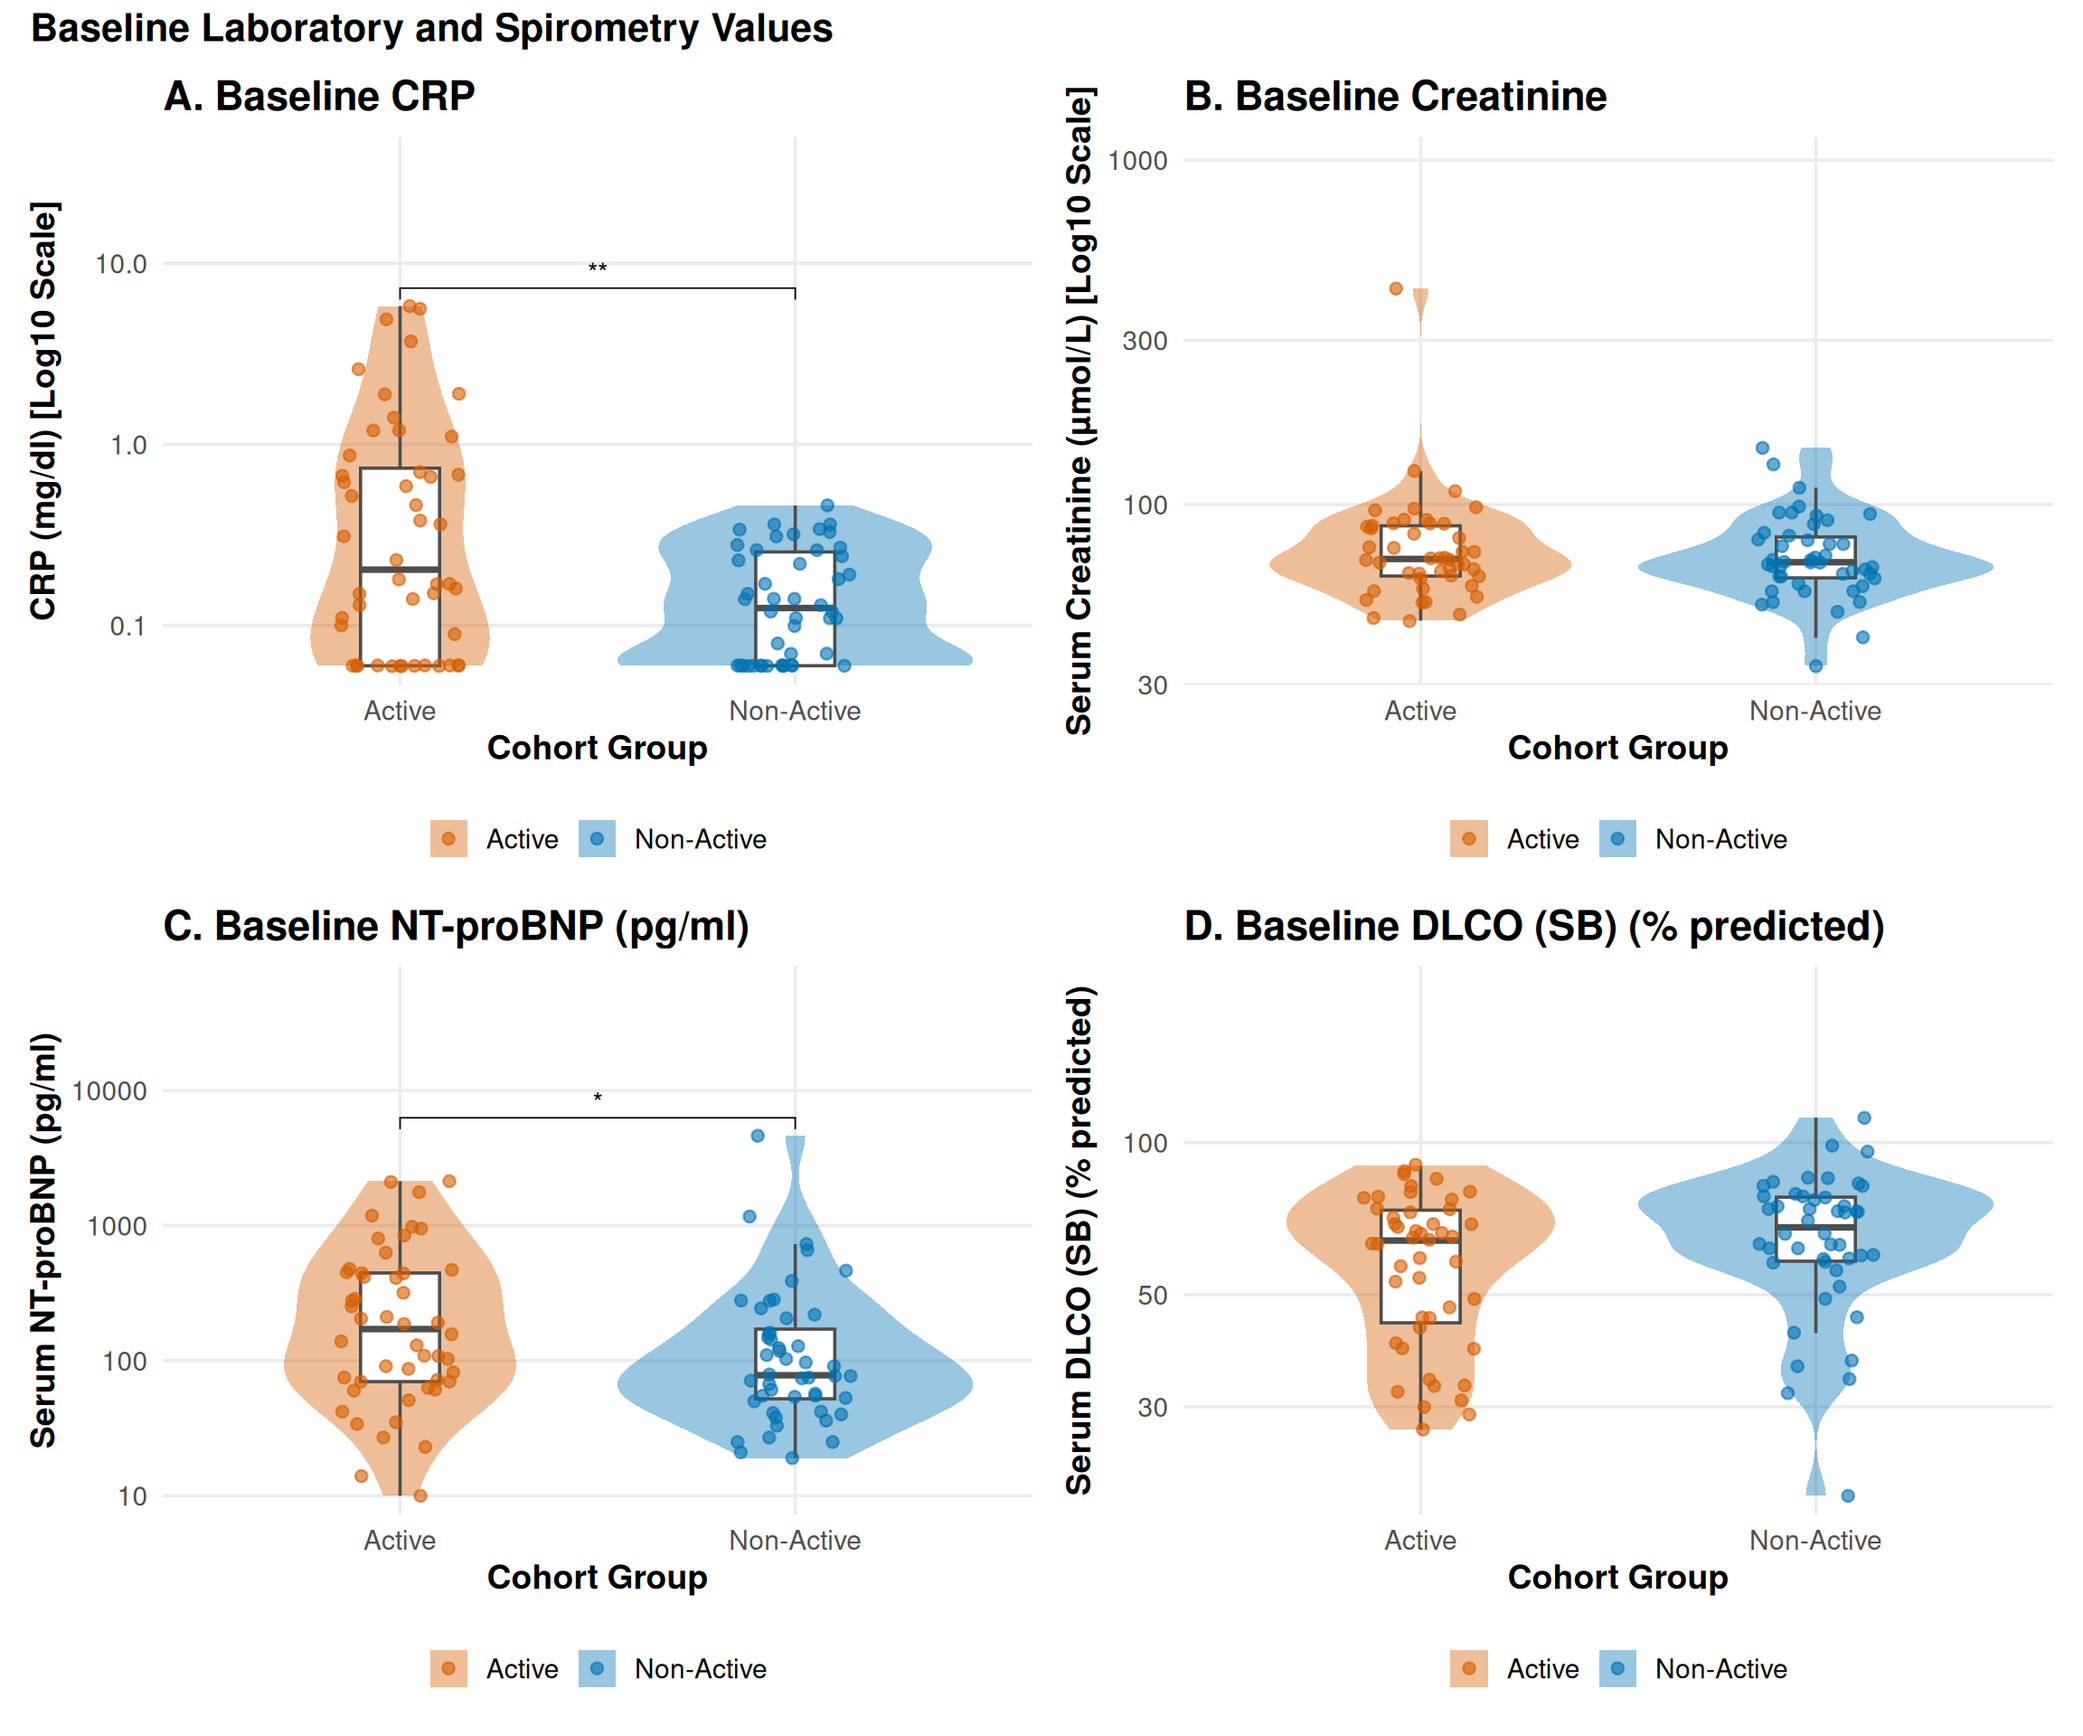
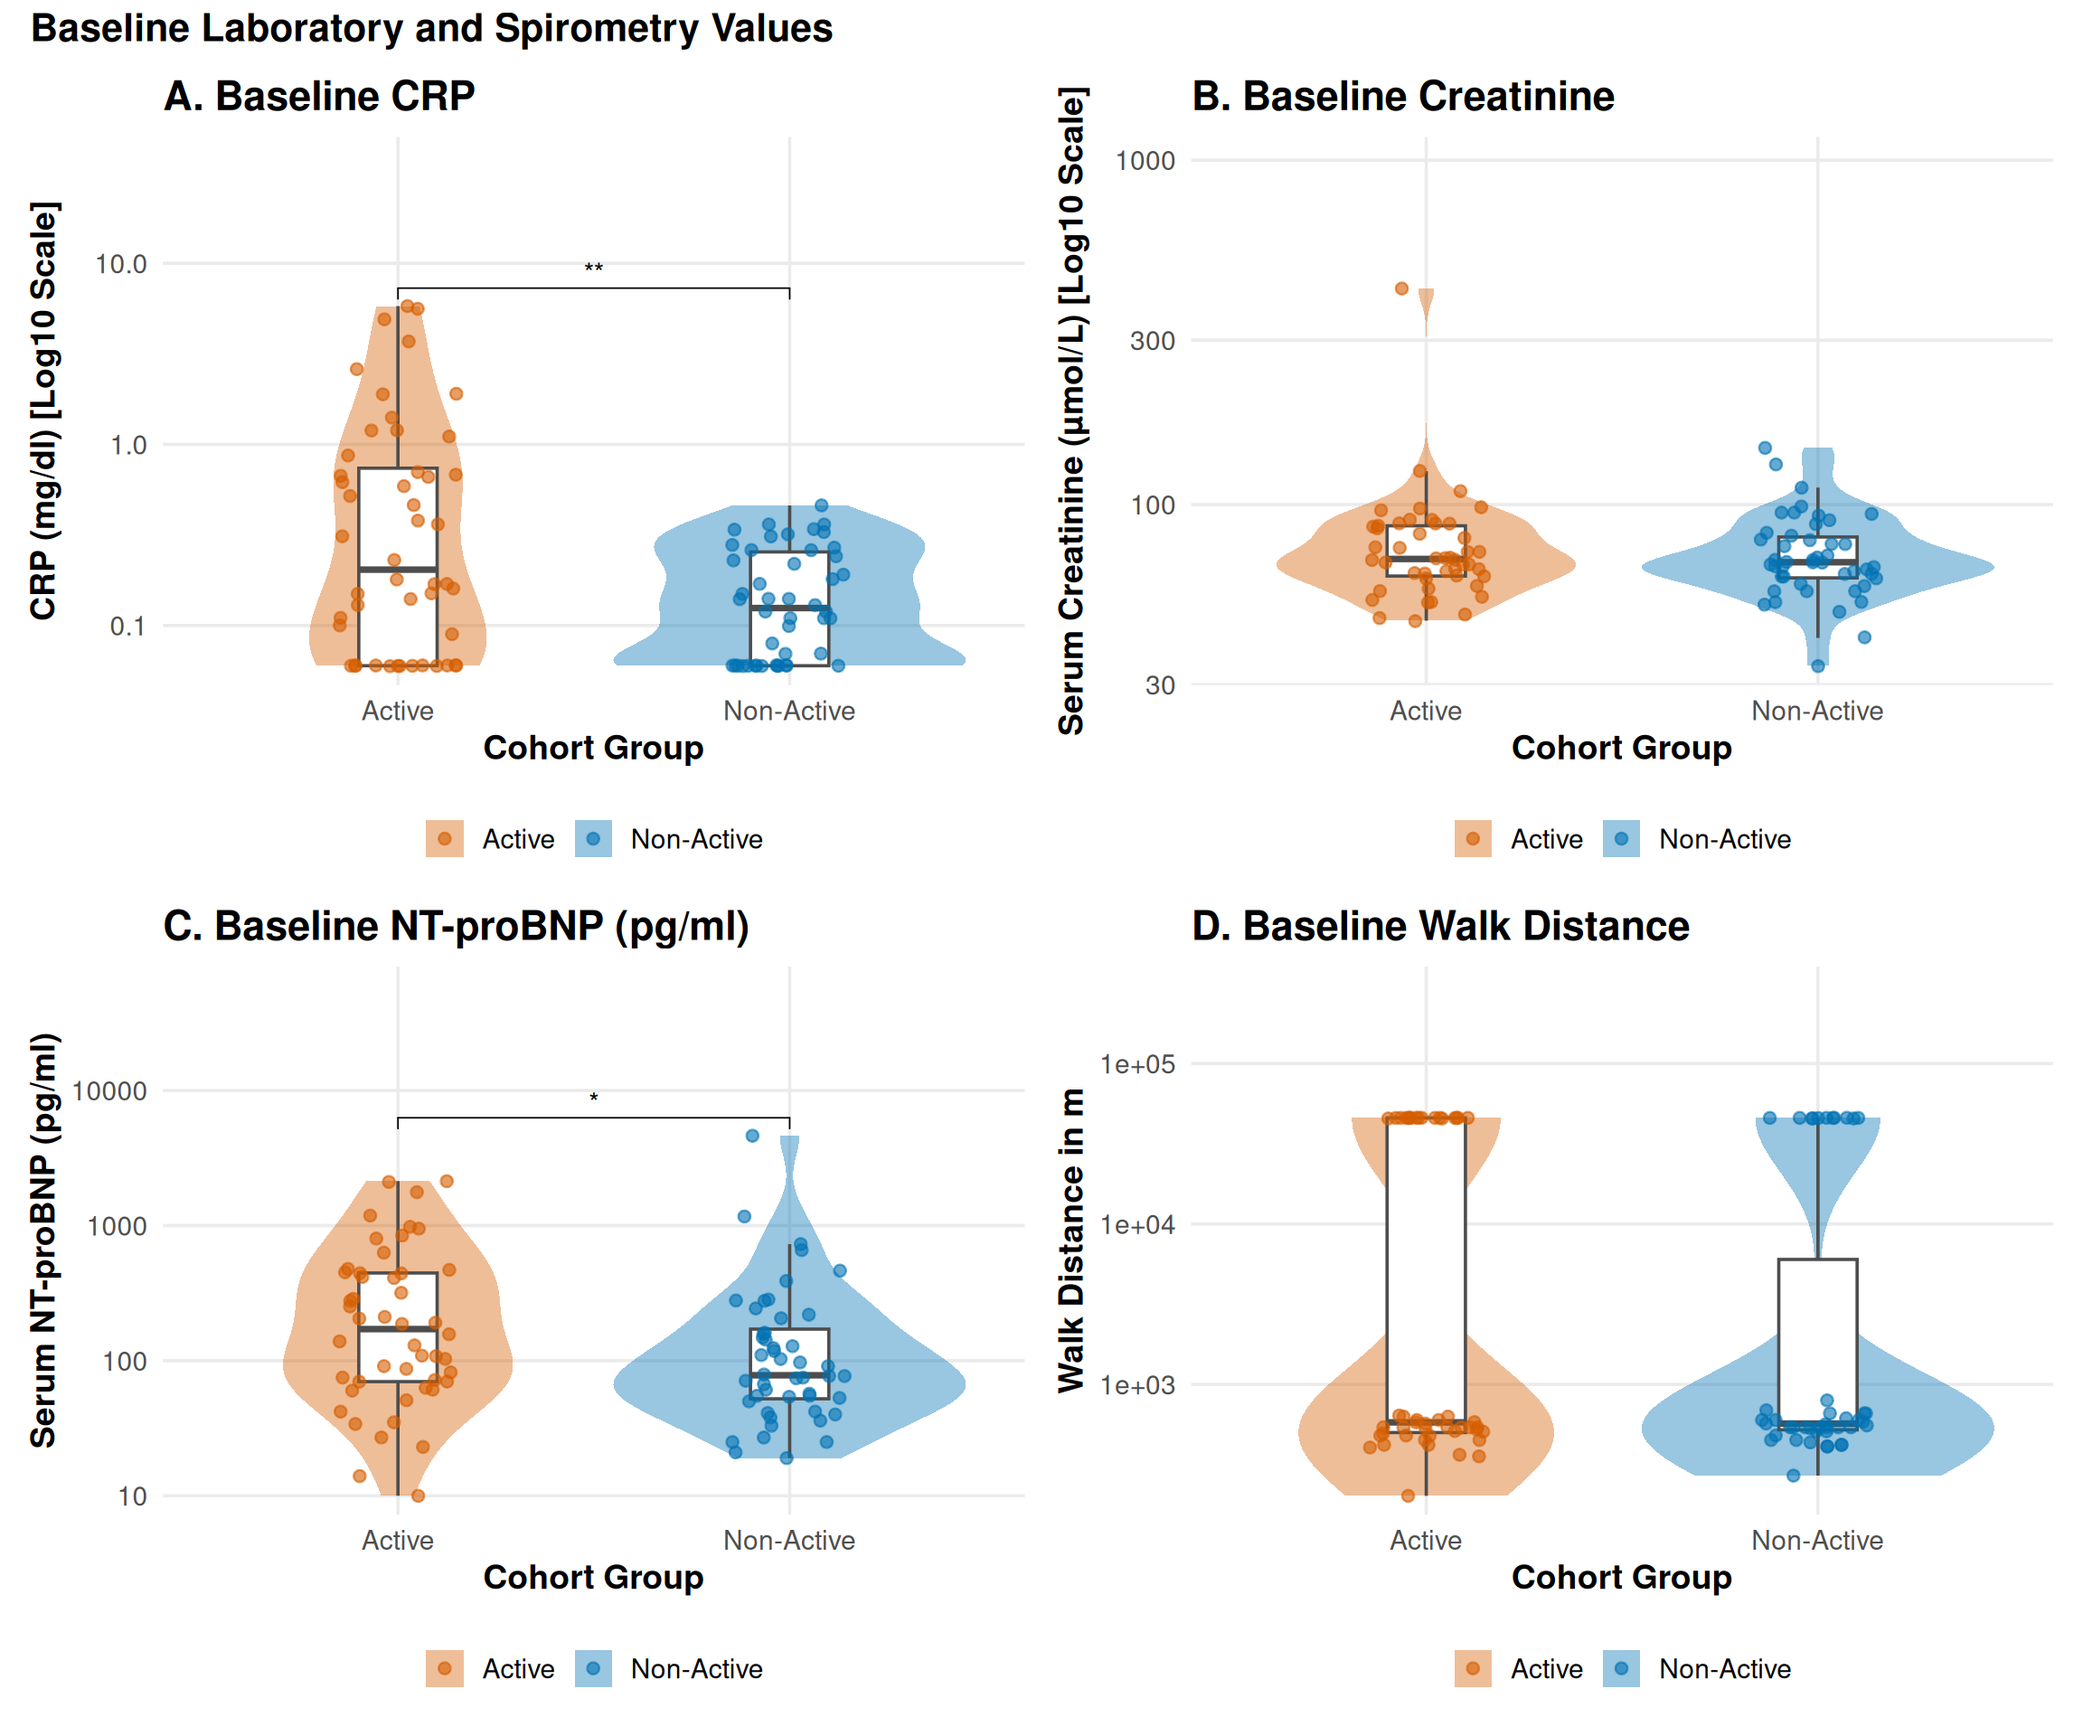
wflow_git_commit(all = TRUE)

diff --git a/docs/02_cohort_characterization.html b/docs/02_cohort_characterization.html
@@ -348,7 +348,10 @@ div.tocify {
   <a href="index.html">Home</a>
 </li>
 <li>
-  <a href="01_data_import_and_qc.html">Data</a>
+  <a href="01a_data_import_and_qc.html">Data</a>
+</li>
+<li>
+  <a href="01b_clinical_feature_engineering.html">Clinical</a>
 </li>
 <li>
   <a href="02_cohort_characterization.html">Cohort</a>
@@ -367,10 +370,22 @@ div.tocify {
       <a href="03b_proteomics_differential.html">Differential</a>
     </li>
     <li>
-      <a href="03c_proteomics_predictive.html">Predictive</a>
+      <a href="03c_proteomics_clustering.html">Clustering</a>
     </li>
     <li>
       <a href="03d_proteomics_clinical_correlations.html">Linear</a>
+    </li>
+  </ul>
+</li>
+<li class="dropdown">
+  <a href="#" class="dropdown-toggle" data-toggle="dropdown" role="button" data-bs-toggle="dropdown" aria-expanded="false">
+    Side Projects
+     
+    <span class="caret"></span>
+  </a>
+  <ul class="dropdown-menu" role="menu">
+    <li>
+      <a href="z01_sideproject_ellen.html">Vascular</a>
     </li>
   </ul>
 </li>
@@ -410,7 +425,7 @@ div.tocify {
 <h4 class="author">alexander-gysin (<a
 href="mailto:alexander.gysin@usz.ch"
 class="email">alexander.gysin@usz.ch</a>)</h4>
-<h4 class="date">17 April, 2026</h4>
+<h4 class="date">28 April, 2026</h4>
 
 </div>
 
@@ -439,7 +454,7 @@ class="glyphicon glyphicon-ok text-success" aria-hidden="true"></span>
 <div class="tab-content">
 <div id="summary" class="tab-pane fade in active">
 <p>
-<strong>Last updated:</strong> 2026-04-17
+<strong>Last updated:</strong> 2026-04-28
 </p>
 <p>
 <strong>Checks:</strong> <span
@@ -570,15 +585,15 @@ project makes it easier to run your code on other machines.</p>
 <div class="panel panel-default">
 <div class="panel-heading">
 <p class="panel-title">
-<a data-toggle="collapse" data-parent="#workflowr-checks" href="#strongRepositoryversionstrongahrefhttpsgithubcomalexandergysinSScUSZtreeedcd4a8cd837eaf3829ae3e8e064ea951758701btargetblankedcd4a8a">
+<a data-toggle="collapse" data-parent="#workflowr-checks" href="#strongRepositoryversionstrongahrefhttpsgithubcomalexandergysinSScUSZtree9f4e2d5a194d6b286824a97dd4e3ad55e4792c05targetblank9f4e2d5a">
 <span class="glyphicon glyphicon-ok text-success"
 aria-hidden="true"></span> <strong>Repository version:</strong>
-<a href="https://github.com/alexander-gysin/SSc-USZ/tree/edcd4a8cd837eaf3829ae3e8e064ea951758701b" target="_blank">edcd4a8</a>
+<a href="https://github.com/alexander-gysin/SSc-USZ/tree/9f4e2d5a194d6b286824a97dd4e3ad55e4792c05" target="_blank">9f4e2d5</a>
 </a>
 </p>
 </div>
 <div
[2 lines of base64/hex data omitted]
 class="panel-collapse collapse">
 <div class="panel-body">
 <p>
@@ -588,7 +603,7 @@ reproducibility.
 </p>
 <p>
 The results in this page were generated with repository version
-<a href="https://github.com/alexander-gysin/SSc-USZ/tree/edcd4a8cd837eaf3829ae3e8e064ea951758701b" target="_blank">edcd4a8</a>.
+<a href="https://github.com/alexander-gysin/SSc-USZ/tree/9f4e2d5a194d6b286824a97dd4e3ad55e4792c05" target="_blank">9f4e2d5</a>.
 See the <em>Past versions</em> tab to see a history of the changes made
 to the R Markdown and HTML files.
 </p>
@@ -606,16 +621,21 @@ Ignored files:
     Ignored:    .Rhistory
     Ignored:    .Rproj.user/
     Ignored:    output/01_data_import_and_qc/
+    Ignored:    output/01a_data_import_and_qc/
+    Ignored:    output/01b_clinical_feature_engineering/
     Ignored:    output/02_cohort_characterization/
-    Ignored:    output/03a_proteomics_global/
     Ignored:    output/03a_proteomics_variance/
     Ignored:    output/03b_proteomics_differential/
-    Ignored:    output/03c_proteomics_predictive/
+    Ignored:    output/03c_proteomics_clustering/
     Ignored:    output/randomizer/
+    Ignored:    output/z01_sideproject_ellen/
     Ignored:    renv/library/
     Ignored:    renv/staging/
 
 Untracked files:
+    Untracked:  analysis/01b_clinical_feature_engineering.Rmd
+    Untracked:  analysis/03c_proteomics_clustering.Rmd
+    Untracked:  analysis/03d_proteomics_correlations.Rmd
     Untracked:  code/randomizer.R
     Untracked:  core
 
@@ -663,6 +683,40 @@ Message
 </tr>
 </thead>
 <tbody>
+<tr>
+<td>
+Rmd
+</td>
+<td>
+<a href="https://github.com/alexander-gysin/SSc-USZ/blob/9f4e2d5a194d6b286824a97dd4e3ad55e4792c05/analysis/02_cohort_characterization.Rmd" target="_blank">9f4e2d5</a>
+</td>
+<td>
+alexander-gysin
+</td>
+<td>
+2026-04-28
+</td>
+<td>
+wflow_git_commit(all = TRUE)
+</td>
+</tr>
+<tr>
+<td>
+html
+</td>
+<td>
+<a href="https://rawcdn.githack.com/alexander-gysin/SSc-USZ/96da8d0541fdc68f1e52805bc442596200335c01/docs/02_cohort_characterization.html" target="_blank">96da8d0</a>
+</td>
+<td>
+alexander-gysin
+</td>
+<td>
+2026-04-17
+</td>
+<td>
+Build site.
+</td>
+</tr>
 <tr>
 <td>
 Rmd
@@ -1117,8 +1171,8 @@ finished characterization
 <p>This script describes the cohors by showing the distributions of
 technical and clinical parameters.</p>
 </div>
-<div id="setup-and-data-import" class="section level1">
-<h1>Setup and Data Import</h1>
+<div id="setup" class="section level1">
+<h1>Setup</h1>
 <div class="info-box">
 <strong>What this code does:</strong>
 <ul>
@@ -1210,50 +1264,7 @@ candidate_vars &lt;- list(
   set1 = c(&quot;Creatinine&quot;, &quot;NT-proBNP (pg/ml)&quot;, &quot;Age&quot;, &quot;DLCO (SB) (% predicted)&quot;)
 )
 
-# 2. Clinical Domains ----------------------------------------------------------
-clinical_domains &lt;- list(
-  Demographics_and_Scores = c(
-    &quot;Age&quot;, &quot;Sex&quot;, &quot;Sample_Age&quot;, &quot;cohort_group&quot;, &quot;Total Score&quot;,
-    &quot;eustarAI&quot;, &quot;ACTIVE_AI&quot;, &quot;Active_our&quot;, &quot;Inflamm_active&quot;, &quot;fibrotic_active&quot;, &quot;vascular_active&quot;
-  ),
-  Cutaneous_and_Vascular = c(
-    &quot;Subset_Diffuse&quot;, &quot;Subset_Limited&quot;, &quot;Subset_Sine&quot;,
-    &quot;Modified rodnan skin score&quot;, &quot;mRSS_a&quot;, &quot;mRSS Worsening (1yr)&quot;,
-    &quot;Raynaud phenomenon&quot;, &quot;Score : Raynaud phenomenon&quot;, &quot;Raynaud&#39;s present&quot;, &quot;Raynaud VAS&quot;,
-    &quot;Digital Tip Ulcers&quot;, &quot;Digital ulcer&quot;, &quot;Fingertip pitting scars&quot;, &quot;Pitting scars on finger tips&quot;,
-    &quot;Telangiectasia&quot;, &quot;Telangiectasia (any)&quot;, &quot;Abnormal Capillaroscopy&quot;, &quot;Capillaroscopy Score&quot;,
-    &quot;Capillaroscopy Pattern&quot;, &quot;Giant capillaries&quot;, &quot;Hemorrhages&quot;, &quot;Capillary loss&quot;, &quot;Ramified bushy capillaries&quot;,
-    &quot;Puffy Fingers&quot;, &quot;Sclerodactyly&quot;, &quot;Skin Thickening (Ext. MCP)&quot;, &quot;Skin Thickening (Prox. MCP)&quot;,
-    &quot;Subcutaneous Calcinosis&quot;, &quot;Gangrene&quot;
-  ),
-  Musculoskeletal = c(
-    &quot;Joint involvement&quot;, &quot;Joint Contractures&quot;, &quot;Tendon friction rubs&quot;,
-    &quot;Proximal muscle weakness&quot;, &quot;Myalgia&quot;, &quot;Muscle atrophy&quot;, &quot;Arthritis Activity (NA)&quot;
-  ),
-  Pulmonary = c(
-    &quot;PAH/ILD&quot;, &quot;ILD diagnosed via HRCT&quot;, &quot;FVC %pred&quot;, &quot;Forced Vital Capacity (ml)&quot;,
-    &quot;DLCO (SB) (% predicted)&quot;, &quot;DLCO/VA (% predicted)&quot;, &quot;TLC %pred&quot;,
-    &quot;O2-saturation at rest (%)&quot;, &quot;Min SpO2 (Exercise)&quot;,
-    &quot;Dyspnea NYHA Stage&quot;, &quot;Max Borg Dyspnea&quot;, &quot;Distance in m&quot;, &quot;New PAH&quot;
-  ),
-  Cardiac = c(
-    &quot;New Cardiac Manifest.&quot;, &quot;Does the patient have pulmonary arterial hypertension since the last visit?&quot;,
-    &quot;Right bundle branch block&quot;, &quot;Right axis deviation&quot;, &quot;Right ventricular hypertrophy&quot;,
-    &quot;Ventricular arrhythmias&quot;, &quot;Auricular arrhythmias&quot;, &quot;Conduction blocks&quot;, &quot;Arrhythmias requiring therapy&quot;,
-    &quot;Right atrium area (cm2)&quot;, &quot;Right ventricular area (cm2)&quot;, &quot;TAPSE (cm)&quot;,
-    &quot;Pericardial effusion on echo&quot;, &quot;PAPsys (on echo)?&quot;, &quot;Diastolic Dysf. (Echo)&quot;, &quot;LVEF %&quot;
-  ),
-  Gastrointestinal = c(
-    &quot;Stomach Symptoms&quot;, &quot;GAVE&quot;, &quot;Intestinal Symptoms&quot;, &quot;Malabsorption syndrome&quot;, &quot;Proximal Dysphagia&quot;
-  ),
-  Labs_and_Biomarkers = c(
-    &quot;CRP&quot;, &quot;Creatinine&quot;, &quot;NT-proBNP (pg/ml)&quot;, &quot;Uric Acid (mg/dl)&quot;, 
-    &quot;Hemoglobin (g/dl)&quot;, &quot;CK value in serum (U/U/L)&quot;, &quot;Proteinuria (&gt;300mg/d)&quot;,
-    &quot;SSc Antibodies&quot;, &quot;SSc Antibody Score&quot;
-  )
-)
-
-# Helper function to determine parametric status (Kept local as requested)
+# Helper function to determine parametric status -------------------------------
 check_parametric &lt;- function(df, var_col, group_col, config, transform = NULL) { 
   test_vec &lt;- df[[var_col]][!is.na(df[[var_col]])]
   group_vec &lt;- df[[group_col]][!is.na(df[[var_col]])]
@@ -1352,12 +1363,12 @@ figure_configs &lt;- list(
         pairwise = TRUE
       ),
       plot_6 = list(
-        title = &quot;Baseline DLCO (SB) (% predicted)&quot;, 
+        title = &quot;Baseline Walk Distance&quot;, 
         type = &quot;violin&quot;,
-        y_var = &quot;DLCO (SB) (% predicted)&quot;,
+        y_var = &quot;Distance in m&quot;,
         x_var = &quot;cohort_group&quot;,
         y_transform = &quot;log10&quot;, 
-        y_label = &quot;Serum DLCO (SB) (% predicted)&quot;, 
+        y_label = &quot;Walk Distance in m&quot;, 
         add_stat_test = TRUE,
         pairwise = TRUE
       )
@@ -2397,8 +2408,8 @@ alexander-gysin
 </div>
 </div>
 </div>
-<div id="baseline-dlco-sb-predicted" class="section level3">
-<h3>Baseline DLCO (SB) (% predicted)</h3>
+<div id="baseline-walk-distance" class="section level3">
+<h3>Baseline Walk Distance</h3>
 <p><img src="figure/02_cohort_characterization.Rmd/print_individual_plots-6.png" alt="" width="672" style="display: block; margin: auto;" /></p>
 <p>
 <button type="button" class="btn btn-default btn-xs btn-workflowr btn-workflowr-fig" data-toggle="collapse" data-target="#fig-print_individual_plots-6">
@@ -2470,7 +2481,7 @@ continuous, binarized (1/0) or ordinal ranks (0,1,2,3). This table shows
 which variables need some adjustment to fulfill these criteria.
 </li>
 <li>
-The table following this one will show you how these were binarized or
+The table following this one shows you how these were binarized or
 converted to ordinal ranks.
 </li>
 </ul>
@@ -2702,6 +2713,9 @@ invisible(gc())</code></pre>
 <li>
 Filtered out sparse variables with &lt; 10 observations to ensure robust
 correlation metrics.
+</li>
+<li>
+Filtered out variables with zero variance
 </li>
 <li>
 Standardized categorical data into ordinal ranks.
@@ -3258,7 +3272,7 @@ invisible(gc())</code></pre>
 <strong>What this code does:</strong>
 <ul>
 <li>
-Visualized local correlations within clinical domains using hierarchical
+Visualized correlations within clinical domains using hierarchical
 clustering.
 </li>
 <li>
